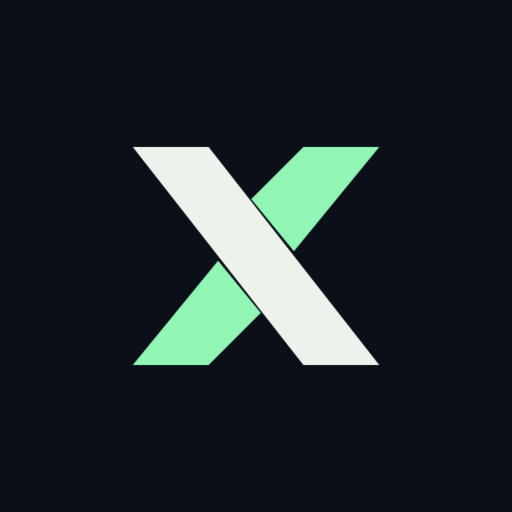
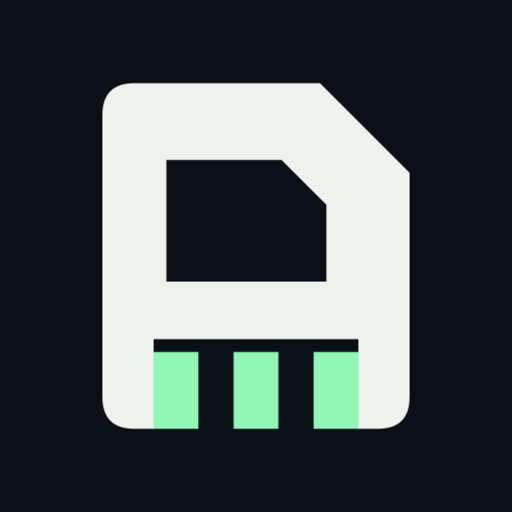
Replace crossed brand mark with a memory card identity

diff --git a/assets/brand/README.md b/assets/brand/README.md
@@ -1,6 +1,6 @@
 # psx identity
 
-The split diagonal mark is original psx artwork, licensed under the project's
+The memory-card mark is original psx artwork, licensed under the project's
 MIT license. Use lowercase **psx** in copy. Machine Rhythm is the maker.
 
 `mark.svg` is the transparent master. `icon.svg` adds the dark app tile and can
@@ -8,11 +8,14 @@ also serve as an SVG favicon. `favicon.ico` contains 16, 32 and 48 pixel tiles;
 `icon-512.png` is a raster export. `readme.svg` is the repository masthead with
 an outlined wordmark. Android's adaptive foreground uses the same paths, kept
 inside its safe area, with a monochrome variant for themed launchers.
+The standalone tile and favicon use a larger optical size; Android retains
+the inset master so launcher masks can crop safely.
 
 Colors: ink `#0B1018`, warm white `#EDF2EC`, signal green `#91F5B6`.
 The small symbol uses flat fills and no texture, gradients or borrowed console
-marks. Keep its cut lines and negative space intact. A favicon asset does not
-imply that this repository has a hosted website.
+marks. Its clipped corner, recessed label and three contacts stay readable
+at small sizes. Keep the silhouette and negative space intact. A favicon asset
+does not imply that this repository has a hosted website.
 
 PlayStation names identify the emulated system. The psx identity does not use
 Sony's logo, startup artwork or trade dress and implies no affiliation.

diff --git a/docs/verification.md b/docs/verification.md
@@ -90,9 +90,15 @@ active marker when an empty player closes, and reconciles late EGL dimensions
 with size-tagged insets. Fresh launch/re-entry and inner/outer rotation checks
 must pass on the corrected APK before this milestone is closed. The user's
 checkpoint and card were preserved privately before replacing the test build.
-The corrected source is `806f3ef`; its APK SHA-256 is
+The corrected runtime source is `806f3ef`; its initial APK SHA-256 is
[1 lines of base64/hex data omitted]
 It is built and awaiting its device pass, not yet a verified runtime correction.
+
+The subsequent memory-card branding revision changes artwork only. Its prepared
[1 lines of base64/hex data omitted]
+The masthead, adaptive/themed icons and 16/32/48 pixel favicon were updated
+together. Android resource compilation and signed APK checks pass; this
+branding build is not yet installed or visually verified on the Fold.
 
 ## Corresponding source and release limits
 
